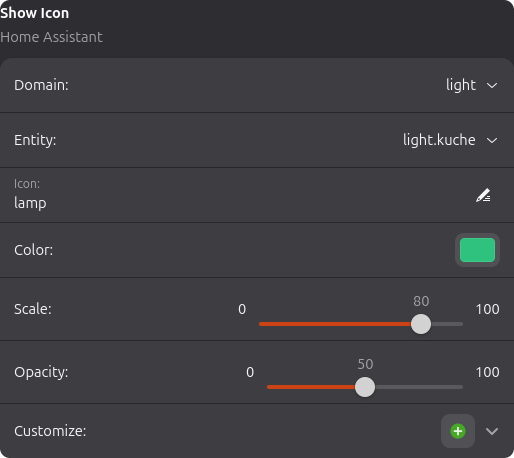
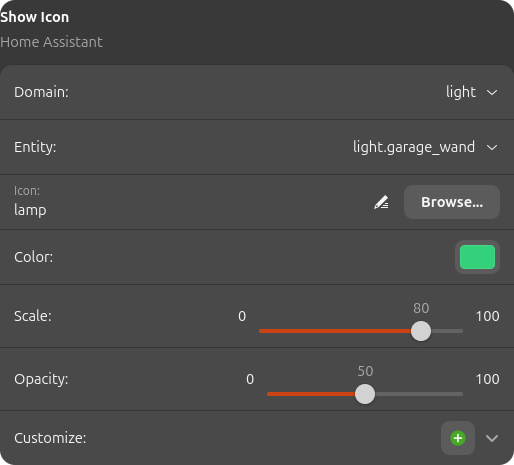
Merge pull request #23 from Dav1d-Fn/main
Add custom image/GIF option to icon state customizations

Pull request: Add custom image/GIF option to icon state customizations
## Summary

- Adds a new "Image" field to the icon customization window, allowing users to set a custom image or GIF file per state instead of an MDI icon
- Includes a "Browse..." button that opens a native file picker filtered for image formats (PNG, JPG, GIF, WEBP, SVG)
- Custom images take priority over MDI icon names when a matching state condition is met
- Fully backwards compatible: existing customizations without a custom image continue to work unchanged

## Details

- `IconCustomization` gains an optional `custom_image` field (file path), stored and loaded via `export()`/`from_dict()`
- `icon_helper.get_icon()` returns the file path directly when a custom image is set, bypassing SVG rendering
- German and English locale strings added

<img width="629" height="393" alt="image" src="https://github.com/user-attachments/assets/8391ae3e-12b3-498e-ae2d-c011ef4e6c82" />

diff --git a/actions/show_icon/icon_window.py b/actions/show_icon/icon_window.py
@@ -2,8 +2,16 @@
 The module for the Home Assistant customization icon window.
 """
 
+import os
 from functools import partial
 from typing import Callable
+
+import gi
+gi.require_version("Gtk", "4.0")
+from gi.repository import Gio
+from gi.repository.Gtk import Button, FileDialog, FileFilter
+
+from loguru import logger as log
 
 from HomeAssistantPlugin.actions import const as base_const
 from HomeAssistantPlugin.actions.cores.customization_core import customization_helper
@@ -39,6 +47,15 @@ class IconWindow(CustomizationWindow):
         self.icon.set_margin_end(self.default_margin)
         self.connect_rows.append(
             partial(self.icon.connect, base_const.CONNECT_ACTIVATE, self.on_widget_changed))
+        self.connect_rows.append(
+            partial(self.icon.connect, base_const.CONNECT_CHANGED, self._on_icon_changed))
+
+        browse_button = Button(label=self.lm.get(icon_const.LABEL_ICON_BROWSE))
+        browse_button.set_margin_top(self.default_margin)
+        browse_button.set_margin_bottom(self.default_margin)
+        browse_button.set_margin_start(self.default_margin)
+        browse_button.set_margin_end(15)
+        self.connect_rows.append(partial(browse_button.connect, base_const.CONNECT_CLICKED, self._on_browse_clicked))
 
         self.color = self._create_color_button(self.check_color)
 
@@ -75,6 +92,7 @@ class IconWindow(CustomizationWindow):
         self.grid_fields.attach(self.check_icon, 2, 2, 1, 1)
         self.grid_fields.attach(label_icon, 3, 2, 1, 1)
         self.grid_fields.attach(self.icon, 4, 2, 1, 1)
+        self.grid_fields.attach(browse_button, 5, 2, 1, 1)
 
         self.grid_fields.attach(self.check_color, 2, 3, 1, 1)
         self.grid_fields.attach(label_color, 3, 3, 1, 1)
@@ -112,6 +130,7 @@ class IconWindow(CustomizationWindow):
 
         self.icon.set_text(self.current.get_icon() or icon_const.EMPTY_STRING)
         self.check_icon.set_active(self.current.get_icon() is not None)
+        self._on_icon_changed()
 
         if self.current.get_color():
             rgba = customization_helper.convert_color_list_to_rgba(self.current.get_color())
@@ -134,18 +153,12 @@ class IconWindow(CustomizationWindow):
         if not super().on_add_button():
             return
 
-        if self.check_icon.get_active():
-            icon = self.icon.get_text()
-
-            if icon.startswith("mdi:"):
-                icon = icon[4:]
-
-            if icon not in self.icons:
-                self.icon.add_css_class(icon_const.ERROR)
-                return
+        if self.check_icon.get_active() and not self.icon.get_text():
+            self.icon.add_css_class(icon_const.ERROR)
+            return
 
         if (not self.check_icon.get_active() and not self.check_color.get_active() and not
-        self.check_scale.get_active() and not self.check_opacity.get_active()):
+                self.check_scale.get_active() and not self.check_opacity.get_active()):
             self.check_icon.add_css_class(icon_const.ERROR)
             self.check_color.add_css_class(icon_const.ERROR)
             self.check_scale.add_css_class(icon_const.ERROR)
@@ -156,8 +169,7 @@ class IconWindow(CustomizationWindow):
         color = self.color.get_rgba() if self.check_color.get_active() else None
         color_list = customization_helper.convert_rgba_to_color_list(color) if color else None
         scale = int(self.scale.get_value()) if self.check_scale.get_active() else None
-        opacity = int(
-            self.opacity.get_value()) if self.check_opacity.get_active() else None
+        opacity = int(self.opacity.get_value()) if self.check_opacity.get_active() else None
 
         self.callback(customization=IconCustomization(
             attribute=self.condition_attribute.get_selected_item().get_string(),
@@ -166,6 +178,43 @@ class IconWindow(CustomizationWindow):
             opacity=opacity), index=self.index)
 
         self.destroy()
+
+    def _on_icon_changed(self, *_) -> None:
+        icon_value = self.icon.get_text()
+        has_icon = bool(icon_value) and icon_value in icon_helper.MDI_ICONS
+        for widget in [self.check_color, self.color, self.check_opacity, self.opacity, self.opacity_entry]:
+            widget.set_sensitive(has_icon)
+
+    def _on_browse_clicked(self, *_) -> None:
+        dialog = FileDialog()
+        dialog.set_title(self.lm.get(icon_const.LABEL_ICON_IMAGE))
+
+        filter_images = FileFilter()
+        filter_images.set_name("Images")
+        for mime in ("image/png", "image/jpeg", "image/gif", "image/webp", "image/svg+xml"):
+            filter_images.add_mime_type(mime)
+
+        filters = Gio.ListStore.new(FileFilter)
+        filters.append(filter_images)
+        dialog.set_filters(filters)
+        dialog.set_default_filter(filter_images)
+
+        if self.icon.get_text():
+            current_dir = os.path.dirname(self.icon.get_text())
+            if os.path.isdir(current_dir):
+                dialog.set_initial_folder(Gio.File.new_for_path(current_dir))
+
+        dialog.open(self, None, self._on_file_chosen)
+
+    def _on_file_chosen(self, dialog, result) -> None:
+        try:
+            file = dialog.open_finish(result)
+            if file:
+                self.icon.set_text(file.get_path())
+                self.check_icon.set_active(True)
+                self._on_icon_changed()
+        except Exception as e:
+            log.error(f"Error choosing file: {e}")
 
     def on_widget_changed(self, *_, **__) -> None:
         super().on_widget_changed()

diff --git a/actions/show_icon/icon_action.py b/actions/show_icon/icon_action.py
@@ -2,6 +2,16 @@
 The module for the Home Assistant action that is loaded in StreamController.
 """
 
+import os
+
+import gi
+
+gi.require_version("Gtk", "4.0")
+from gi.repository import Gio
+from gi.repository.Gtk import Align, Button, FileDialog, FileFilter
+
+from loguru import logger as log
+
 from HomeAssistantPlugin.actions.cores.base_core.base_core import requires_initialization
 from HomeAssistantPlugin.actions.cores.customization_core.customization_core import CustomizationCore
 from HomeAssistantPlugin.actions.show_icon import icon_const, icon_helper
@@ -43,6 +53,11 @@ class ShowIcon(CustomizationCore):
             complex_var_name=True
         )
 
+        browse_button = Button(label=self.lm.get(icon_const.LABEL_ICON_BROWSE))
+        browse_button.set_valign(Align.CENTER)
+        browse_button.connect("clicked", self._on_browse_clicked)
+        self.icon.widget.add_suffix(browse_button)
+
         self.color: ColorButtonRow = ColorButtonRow(
             self, icon_const.SETTING_ICON_COLOR, icon_const.DEFAULT_ICON_COLOR,
             title=icon_const.LABEL_ICON_COLOR, on_change=self._reload,
@@ -62,6 +77,7 @@ class ShowIcon(CustomizationCore):
             title=icon_const.LABEL_ICON_OPACITY, step=1, digits=0, on_change=self._reload,
             can_reset=False, complex_var_name=True
         )
+
 
     @requires_initialization
     def set_enabled_disabled(self) -> None:
@@ -87,17 +103,22 @@ class ShowIcon(CustomizationCore):
 
             self.opacity.widget.set_sensitive(False)
             self.opacity.widget.set_subtitle(self.lm.get(icon_const.LABEL_ICON_NO_ENTITY))
+
         else:
+            icon_value = self.settings.get_icon()
+            has_icon = bool(icon_value) and icon_value in icon_helper.MDI_ICONS
+            not_supported = self.lm.get(icon_const.LABEL_ICON_ONLY_SUPPORTED_FOR_ICONS) if not has_icon else icon_const.EMPTY_STRING
+
             self.icon.widget.set_sensitive(True)
 
-            self.color.widget.set_sensitive(True)
-            self.color.widget.set_subtitle(icon_const.EMPTY_STRING)
+            self.color.widget.set_sensitive(has_icon)
+            self.color.widget.set_subtitle(not_supported)
 
             self.scale.widget.set_sensitive(True)
             self.scale.widget.set_subtitle(icon_const.EMPTY_STRING)
 
-            self.opacity.widget.set_sensitive(True)
-            self.opacity.widget.set_subtitle(icon_const.EMPTY_STRING)
+            self.opacity.widget.set_sensitive(has_icon)
+            self.opacity.widget.set_subtitle(not_supported)
 
     def refresh(self, state: dict = None) -> None:
         """
@@ -122,6 +143,37 @@ class ShowIcon(CustomizationCore):
 
         self._load_customizations()
         self.set_enabled_disabled()
+
+    def _on_browse_clicked(self, *_) -> None:
+        dialog = FileDialog()
+        dialog.set_title(self.lm.get(icon_const.LABEL_ICON_IMAGE))
+
+        filter_images = FileFilter()
+        filter_images.set_name("Images")
+        for mime in ("image/png", "image/jpeg", "image/gif", "image/webp", "image/svg+xml"):
+            filter_images.add_mime_type(mime)
+
+        filters = Gio.ListStore.new(FileFilter)
+        filters.append(filter_images)
+        dialog.set_filters(filters)
+        dialog.set_default_filter(filter_images)
+
+        current_path = self.icon.widget.get_text()
+        if current_path:
+            current_dir = os.path.dirname(current_path)
+            if os.path.isdir(current_dir):
+                dialog.set_initial_folder(Gio.File.new_for_path(current_dir))
+
+        dialog.open(None, None, self._on_file_chosen)
+
+    def _on_file_chosen(self, dialog, result) -> None:
+        try:
+            file = dialog.open_finish(result)
+            if file:
+                self.icon.widget.set_text(file.get_path())
+                self._reload()
+        except Exception as e:
+            log.error(f"Error choosing file: {e}")
 
     def _get_domains(self) -> list[str]:
         """This class needs all domains that provide actions in Home Assistant."""

diff --git a/actions/cores/base_core/migrate.py b/actions/cores/base_core/migrate.py
@@ -1,0 +1,27 @@
+from HomeAssistantPlugin.actions import const
+from HomeAssistantPlugin.actions.cores.customization_core import customization_const
+from HomeAssistantPlugin.actions.show_icon import icon_const
+from HomeAssistantPlugin.actions.show_icon.icon_settings import ShowIconSettings
+
+
+def migrate_settings(action) -> None:
+    settings = action.get_settings()
+
+    if settings.get(const.SETTING_VERSION) is not None:
+        return
+
+    migrate_v0_v1(action)
+
+def migrate_v0_v1(action) -> None:
+    """
+    Migrate from no version to v1.
+    There is actually nothing to do yet - this just introduces the version field.
+    """
+    settings = action.get_settings()
+
+    if not settings:
+        # settings are empty - this is a brand-new action
+        return
+
+    settings[const.SETTING_VERSION] = const.SETTING_VERSION_NUMBER
+    action.set_settings(settings)

diff --git a/actions/show_icon/icon_helper.py b/actions/show_icon/icon_helper.py
@@ -29,6 +29,10 @@ def get_icon(state: dict, settings: ShowIconSettings, is_connected: bool) -> tup
 
     name, color, scale, opacity = _get_icon_settings(state, settings)
 
+    if name not in MDI_ICONS:
+        # color and opacity only have an effect on icons
+        return name, scale
+
     # convert RGB color to hex
     color = customization_helper.convert_color_list_to_hex(color)
 
@@ -39,13 +43,10 @@ def get_icon(state: dict, settings: ShowIconSettings, is_connected: bool) -> tup
 
 def _get_icon_settings(state: dict, settings: ShowIconSettings) -> tuple[str, str, float, float]:
     # default value for the icon is the icon set in HA
-    name = state.get(icon_const.ATTRIBUTES, {}).get(icon_const.ATTRIBUTE_ICON, icon_const.EMPTY_STRING)
+    name = settings.get_icon() or state.get(icon_const.ATTRIBUTES, {}).get(icon_const.ATTRIBUTE_ICON, icon_const.EMPTY_STRING).replace("mdi:", icon_const.EMPTY_STRING)
     color = settings.get_color()
     scale = settings.get_scale()
     opacity = settings.get_opacity()
-
-    if settings.get_icon() in MDI_ICONS.keys():
-        name = settings.get_icon()
 
     #
     # Begin custom icon
@@ -88,8 +89,7 @@ def _get_icon_settings(state: dict, settings: ShowIconSettings) -> tuple[str, st
                 or (operator == "<=" and value <= custom_icon_value)
                 or (operator == ">" and value > custom_icon_value)
                 or (operator == ">=" and value >= custom_icon_value)):
-            name, color, scale, opacity = _replace_values(name, color, scale, opacity,
-                                                          customization)
+            name, color, scale, opacity = _replace_values(name, color, scale, opacity, customization)
 
     #
     # End custom icon

diff --git a/actions/cores/base_core/base_core.py b/actions/cores/base_core/base_core.py
@@ -1,8 +1,10 @@
 """The module for the Home Assistant action that is loaded in StreamController."""
 
 import gi
-from GtkHelper.GenerativeUI.ComboRow import ComboRow
 from HomeAssistantPlugin.actions import const
+from HomeAssistantPlugin.actions.cores.base_core.migrate import migrate_settings
+
+from GtkHelper.GenerativeUI.ComboRow import ComboRow
 from src.backend.PluginManager.ActionCore import ActionCore
 
 gi.require_version('Gtk', '4.0')
@@ -48,6 +50,7 @@ class BaseCore(ActionCore):
 
     def on_ready(self) -> None:
         """Set up action when StreamController has finished loading."""
+        migrate_settings(self)
         self.settings = self.settings_implementation(self)
         self.initialized = True
 

diff --git a/actions/show_icon/icon_const.py b/actions/show_icon/icon_const.py
@@ -31,6 +31,11 @@ CUSTOM_ICON = "icon"
 CUSTOM_COLOR = "color"
 CUSTOM_SCALE = "scale"
 CUSTOM_OPACITY = "opacity"
+CUSTOM_IMAGE = "image"
+
+LABEL_ICON_IMAGE = "actions.home_assistant.icon.image.label"
+LABEL_ICON_BROWSE = "actions.home_assistant.icon.browse.label"
+LABEL_ICON_ONLY_SUPPORTED_FOR_ICONS = "actions.home_assistant.icon.only_supported_for_icons.label"
 
 MDI_SVG_JSON = "assets/mdi-svg.json"
 ICON_COLOR_RED = "#ff0000"

diff --git a/actions/const.py b/actions/const.py
@@ -15,6 +15,7 @@ LABEL_CUSTOMIZATION = "actions.home_assistant.customization.label"
 LABEL_NO_ENTITY = "actions.home_assistant.customization.no_entity.label"
 
 SETTING_VERSION = "version"
+SETTING_VERSION_NUMBER = 1
 
 SETTING_ENTITY = "entity"
 SETTING_DOMAIN = "domain"

diff --git a/actions/cores/base_core/base_settings.py b/actions/cores/base_core/base_settings.py
@@ -3,6 +3,7 @@
 from HomeAssistantPlugin.actions import const
 
 DEFAULT_SETTINGS = {
+    const.SETTING_VERSION: const.SETTING_VERSION_NUMBER,
     const.SETTING_DOMAIN: const.EMPTY_STRING,
     const.SETTING_ENTITY: const.EMPTY_STRING
 }

diff --git a/README.md b/README.md
@@ -58,11 +58,13 @@
   - Disable `key_down` by mapping it to `None`
 
 ### 🎨 Show an Icon
-- Display entity icons or custom icons from [Material Design Icons](https://pictogrammers.com/library/mdi/)
+- Display entity icons or custom icons from [Material Design Icons](https://pictogrammers.com/library/mdi/) as well as images and GIFs
 - Customize icon appearance:
   - 🎨 Color
   - 📏 Scale
   - 🌫️ Opacity
+- Customize image appearance:
+  - 📏 Scale
 - **Dynamic customization** based on state or attribute values
 - Automatic updates when entity state changes
 